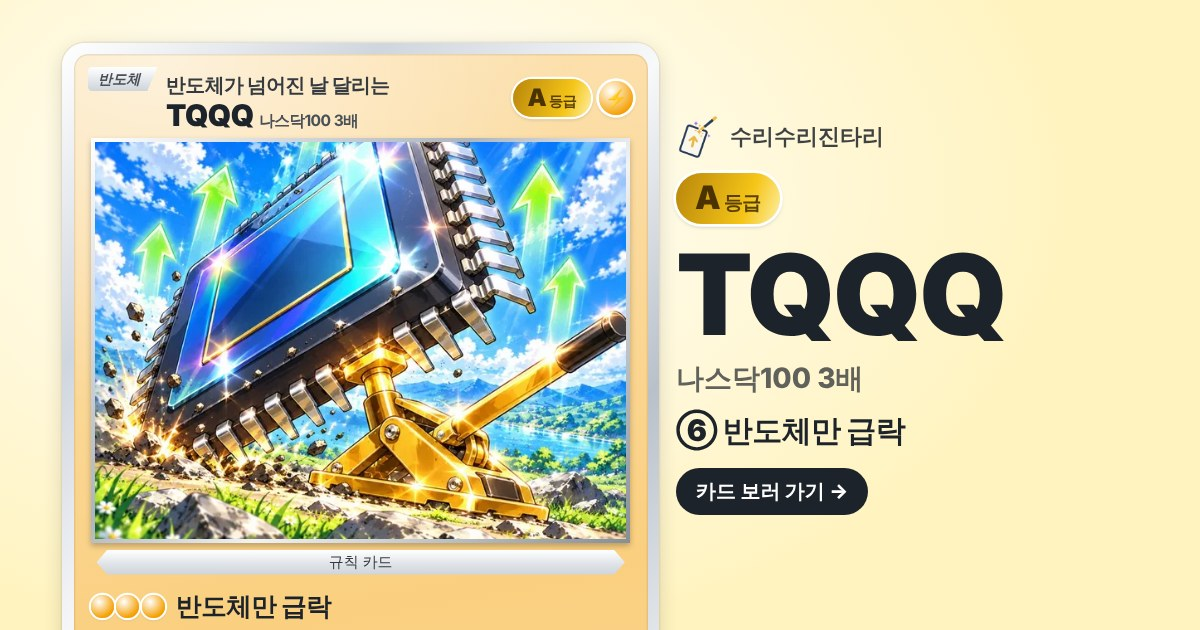
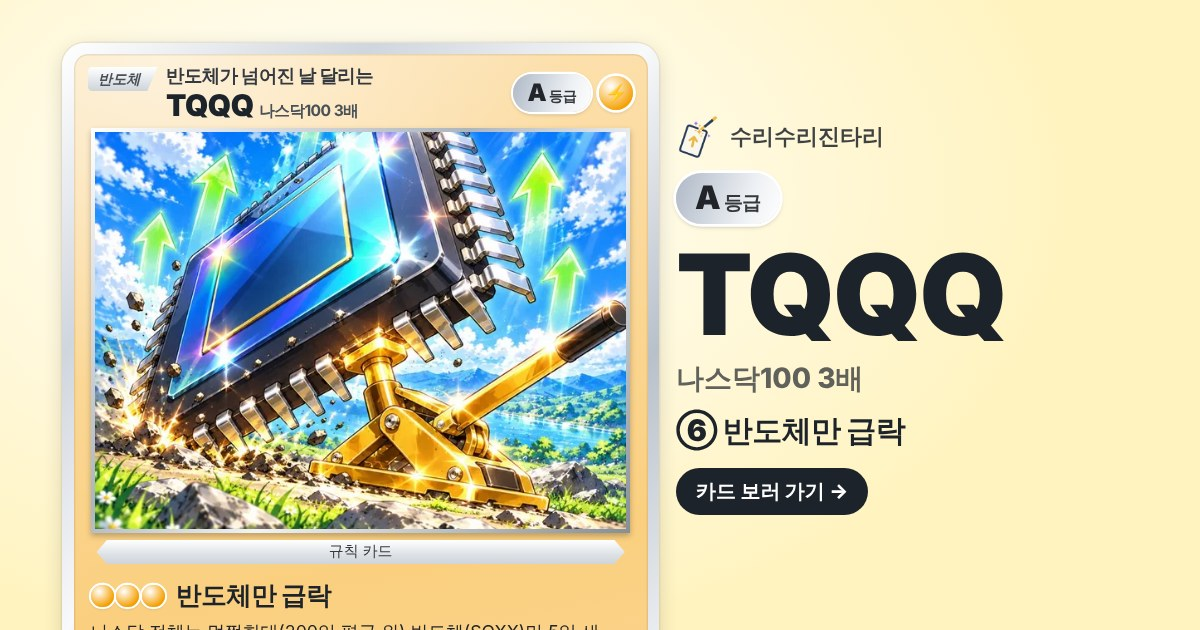
Regenerate thumbnails with frame-colored badges
Claude-Session: https://claude.ai/code/session_01Xnyx7mtSPSqwH8ncGopNjD

Changed region(s): [[0.0617, 0.0905, 0.555, 1.0], [0.555, 0.2714, 0.6475, 0.3619]]

diff --git a/c/1-b/index.html b/c/1-b/index.html
@@ -5,7 +5,7 @@
 <meta property="og:title" content="급락 초입 카드 · B등급">
 <meta property="og:description" content="시장이 막 미끄러지기 시작할 때가 가장 싸게 담을 수 있는 순간. 깊이 빠진 뒤가 아니라 '처음' 꺾일 때 받아요. 수리수리진타리에서 지금 이 카드를 확인하세요.">
 <meta property="og:url" content="https://stock.jintar.co.kr/c/1-b/">
-<meta property="og:image" content="https://stock.jintar.co.kr/c/1-b.jpg?v=mv8oqtoo">
+<meta property="og:image" content="https://stock.jintar.co.kr/c/1-b.jpg?v=mv8q327z">
 <meta property="og:image:width" content="1200">
 <meta property="og:image:height" content="630">
 <meta property="og:image:alt" content="급락 초입 카드">
@@ -13,7 +13,7 @@
 <meta name="twitter:card" content="summary_large_image">
 <meta name="twitter:title" content="급락 초입 카드 · B등급">
 <meta name="twitter:description" content="시장이 막 미끄러지기 시작할 때가 가장 싸게 담을 수 있는 순간. 깊이 빠진 뒤가 아니라 '처음' 꺾일 때 받아요. 수리수리진타리에서 지금 이 카드를 확인하세요.">
-<meta name="twitter:image" content="https://stock.jintar.co.kr/c/1-b.jpg?v=mv8oqtoo">
+<meta name="twitter:image" content="https://stock.jintar.co.kr/c/1-b.jpg?v=mv8q327z">
 <link rel="icon" href="https://yoonjintar2-ctrl.github.io/bb/hunter/a/icon180.png?v=2">
 <script>var h=(location.hash||'').replace(/^#/,'').replace(/[^A-Za-z0-9]/g,'');location.replace('/#c1'+(h?'-'+h:''));</script>
 </head><body style="font-family:sans-serif;color:#6b7580;text-align:center;padding-top:40vh"><a href="/#c1">카드 보러 가기</a></body></html>

diff --git a/c/1/index.html b/c/1/index.html
@@ -5,7 +5,7 @@
 <meta property="og:title" content="급락 초입 카드 · A등급">
 <meta property="og:description" content="시장이 막 미끄러지기 시작할 때가 가장 싸게 담을 수 있는 순간. 깊이 빠진 뒤가 아니라 '처음' 꺾일 때 받아요. 수리수리진타리에서 지금 이 카드를 확인하세요.">
 <meta property="og:url" content="https://stock.jintar.co.kr/c/1/">
-<meta property="og:image" content="https://stock.jintar.co.kr/c/1.jpg?v=mv8oqtok">
+<meta property="og:image" content="https://stock.jintar.co.kr/c/1.jpg?v=mv8q327t">
 <meta property="og:image:width" content="1200">
 <meta property="og:image:height" content="630">
 <meta property="og:image:alt" content="급락 초입 카드">
@@ -13,7 +13,7 @@
 <meta name="twitter:card" content="summary_large_image">
 <meta name="twitter:title" content="급락 초입 카드 · A등급">
 <meta name="twitter:description" content="시장이 막 미끄러지기 시작할 때가 가장 싸게 담을 수 있는 순간. 깊이 빠진 뒤가 아니라 '처음' 꺾일 때 받아요. 수리수리진타리에서 지금 이 카드를 확인하세요.">
-<meta name="twitter:image" content="https://stock.jintar.co.kr/c/1.jpg?v=mv8oqtok">
+<meta name="twitter:image" content="https://stock.jintar.co.kr/c/1.jpg?v=mv8q327t">
 <link rel="icon" href="https://yoonjintar2-ctrl.github.io/bb/hunter/a/icon180.png?v=2">
 <script>var h=(location.hash||'').replace(/^#/,'').replace(/[^A-Za-z0-9]/g,'');location.replace('/#c1'+(h?'-'+h:''));</script>
 </head><body style="font-family:sans-serif;color:#6b7580;text-align:center;padding-top:40vh"><a href="/#c1">카드 보러 가기</a></body></html>

diff --git a/c/8-bp/index.html b/c/8-bp/index.html
@@ -5,7 +5,7 @@
 <meta property="og:title" content="급락일 과하게 빠진 종목 카드 · B+등급">
 <meta property="og:description" content="협곡 바닥까지 과하게 떨어진 종목은 스프링처럼 튀어 올라요. 늦을수록 손해. 수리수리진타리에서 지금 이 카드를 확인하세요.">
 <meta property="og:url" content="https://stock.jintar.co.kr/c/8-bp/">
-<meta property="og:image" content="https://stock.jintar.co.kr/c/8-bp.jpg?v=mv8oqtop">
+<meta property="og:image" content="https://stock.jintar.co.kr/c/8-bp.jpg?v=mv8q3280">
 <meta property="og:image:width" content="1200">
 <meta property="og:image:height" content="630">
 <meta property="og:image:alt" content="급락일 과하게 빠진 종목 카드">
@@ -13,7 +13,7 @@
 <meta name="twitter:card" content="summary_large_image">
 <meta name="twitter:title" content="급락일 과하게 빠진 종목 카드 · B+등급">
 <meta name="twitter:description" content="협곡 바닥까지 과하게 떨어진 종목은 스프링처럼 튀어 올라요. 늦을수록 손해. 수리수리진타리에서 지금 이 카드를 확인하세요.">
-<meta name="twitter:image" content="https://stock.jintar.co.kr/c/8-bp.jpg?v=mv8oqtop">
+<meta name="twitter:image" content="https://stock.jintar.co.kr/c/8-bp.jpg?v=mv8q3280">
 <link rel="icon" href="https://yoonjintar2-ctrl.github.io/bb/hunter/a/icon180.png?v=2">
 <script>var h=(location.hash||'').replace(/^#/,'').replace(/[^A-Za-z0-9]/g,'');location.replace('/#c8'+(h?'-'+h:''));</script>
 </head><body style="font-family:sans-serif;color:#6b7580;text-align:center;padding-top:40vh"><a href="/#c8">카드 보러 가기</a></body></html>

diff --git a/c/8/index.html b/c/8/index.html
@@ -5,7 +5,7 @@
 <meta property="og:title" content="급락일 과하게 빠진 종목 카드 · A등급">
 <meta property="og:description" content="협곡 바닥까지 과하게 떨어진 종목은 스프링처럼 튀어 올라요. 늦을수록 손해. 수리수리진타리에서 지금 이 카드를 확인하세요.">
 <meta property="og:url" content="https://stock.jintar.co.kr/c/8/">
-<meta property="og:image" content="https://stock.jintar.co.kr/c/8.jpg?v=mv8oqtom">
+<meta property="og:image" content="https://stock.jintar.co.kr/c/8.jpg?v=mv8q327w">
 <meta property="og:image:width" content="1200">
 <meta property="og:image:height" content="630">
 <meta property="og:image:alt" content="급락일 과하게 빠진 종목 카드">
@@ -13,7 +13,7 @@
 <meta name="twitter:card" content="summary_large_image">
 <meta name="twitter:title" content="급락일 과하게 빠진 종목 카드 · A등급">
 <meta name="twitter:description" content="협곡 바닥까지 과하게 떨어진 종목은 스프링처럼 튀어 올라요. 늦을수록 손해. 수리수리진타리에서 지금 이 카드를 확인하세요.">
-<meta name="twitter:image" content="https://stock.jintar.co.kr/c/8.jpg?v=mv8oqtom">
+<meta name="twitter:image" content="https://stock.jintar.co.kr/c/8.jpg?v=mv8q327w">
 <link rel="icon" href="https://yoonjintar2-ctrl.github.io/bb/hunter/a/icon180.png?v=2">
 <script>var h=(location.hash||'').replace(/^#/,'').replace(/[^A-Za-z0-9]/g,'');location.replace('/#c8'+(h?'-'+h:''));</script>
 </head><body style="font-family:sans-serif;color:#6b7580;text-align:center;padding-top:40vh"><a href="/#c8">카드 보러 가기</a></body></html>

diff --git a/c/2-b/index.html b/c/2-b/index.html
@@ -5,7 +5,7 @@
 <meta property="og:title" content="나스닥 박스 하단 카드 · B등급">
 <meta property="og:description" content="오른 뒤 쉬어 가는 상자 안에서, 바닥을 두 번 확인하고 튀어 오를 때를 노려요. 수리수리진타리에서 지금 이 카드를 확인하세요.">
 <meta property="og:url" content="https://stock.jintar.co.kr/c/2-b/">
-<meta property="og:image" content="https://stock.jintar.co.kr/c/2-b.jpg?v=mv8oqtop">
+<meta property="og:image" content="https://stock.jintar.co.kr/c/2-b.jpg?v=mv8q327z">
 <meta property="og:image:width" content="1200">
 <meta property="og:image:height" content="630">
 <meta property="og:image:alt" content="나스닥 박스 하단 카드">
@@ -13,7 +13,7 @@
 <meta name="twitter:card" content="summary_large_image">
 <meta name="twitter:title" content="나스닥 박스 하단 카드 · B등급">
 <meta name="twitter:description" content="오른 뒤 쉬어 가는 상자 안에서, 바닥을 두 번 확인하고 튀어 오를 때를 노려요. 수리수리진타리에서 지금 이 카드를 확인하세요.">
-<meta name="twitter:image" content="https://stock.jintar.co.kr/c/2-b.jpg?v=mv8oqtop">
+<meta name="twitter:image" content="https://stock.jintar.co.kr/c/2-b.jpg?v=mv8q327z">
 <link rel="icon" href="https://yoonjintar2-ctrl.github.io/bb/hunter/a/icon180.png?v=2">
 <script>var h=(location.hash||'').replace(/^#/,'').replace(/[^A-Za-z0-9]/g,'');location.replace('/#c2'+(h?'-'+h:''));</script>
 </head><body style="font-family:sans-serif;color:#6b7580;text-align:center;padding-top:40vh"><a href="/#c2">카드 보러 가기</a></body></html>

diff --git a/c/2/index.html b/c/2/index.html
@@ -5,7 +5,7 @@
 <meta property="og:title" content="나스닥 박스 하단 카드 · B+등급">
 <meta property="og:description" content="오른 뒤 쉬어 가는 상자 안에서, 바닥을 두 번 확인하고 튀어 오를 때를 노려요. 수리수리진타리에서 지금 이 카드를 확인하세요.">
 <meta property="og:url" content="https://stock.jintar.co.kr/c/2/">
-<meta property="og:image" content="https://stock.jintar.co.kr/c/2.jpg?v=mv8oqtol">
+<meta property="og:image" content="https://stock.jintar.co.kr/c/2.jpg?v=mv8q327u">
 <meta property="og:image:width" content="1200">
 <meta property="og:image:height" content="630">
 <meta property="og:image:alt" content="나스닥 박스 하단 카드">
@@ -13,7 +13,7 @@
 <meta name="twitter:card" content="summary_large_image">
 <meta name="twitter:title" content="나스닥 박스 하단 카드 · B+등급">
 <meta name="twitter:description" content="오른 뒤 쉬어 가는 상자 안에서, 바닥을 두 번 확인하고 튀어 오를 때를 노려요. 수리수리진타리에서 지금 이 카드를 확인하세요.">
-<meta name="twitter:image" content="https://stock.jintar.co.kr/c/2.jpg?v=mv8oqtol">
+<meta name="twitter:image" content="https://stock.jintar.co.kr/c/2.jpg?v=mv8q327u">
 <link rel="icon" href="https://yoonjintar2-ctrl.github.io/bb/hunter/a/icon180.png?v=2">
 <script>var h=(location.hash||'').replace(/^#/,'').replace(/[^A-Za-z0-9]/g,'');location.replace('/#c2'+(h?'-'+h:''));</script>
 </head><body style="font-family:sans-serif;color:#6b7580;text-align:center;padding-top:40vh"><a href="/#c2">카드 보러 가기</a></body></html>

diff --git a/c/13s/index.html b/c/13s/index.html
@@ -5,7 +5,7 @@
 <meta property="og:title" content="⛔ 매수 금지 · 반도체 과열 뒤 꺾임 카드 · C-등급">
 <meta property="og:description" content="들뜬 군중이 떠난 자리엔 다시 들어가지 않아요. 수리수리진타리에서 지금 이 카드를 확인하세요.">
 <meta property="og:url" content="https://stock.jintar.co.kr/c/13s/">
-<meta property="og:image" content="https://stock.jintar.co.kr/c/13s.jpg?v=mv8oqtoo">
+<meta property="og:image" content="https://stock.jintar.co.kr/c/13s.jpg?v=mv8q327y">
 <meta property="og:image:width" content="1200">
 <meta property="og:image:height" content="630">
 <meta property="og:image:alt" content="반도체 과열 뒤 꺾임 카드">
@@ -13,7 +13,7 @@
 <meta name="twitter:card" content="summary_large_image">
 <meta name="twitter:title" content="⛔ 매수 금지 · 반도체 과열 뒤 꺾임 카드 · C-등급">
 <meta name="twitter:description" content="들뜬 군중이 떠난 자리엔 다시 들어가지 않아요. 수리수리진타리에서 지금 이 카드를 확인하세요.">
-<meta name="twitter:image" content="https://stock.jintar.co.kr/c/13s.jpg?v=mv8oqtoo">
+<meta name="twitter:image" content="https://stock.jintar.co.kr/c/13s.jpg?v=mv8q327y">
 <link rel="icon" href="https://yoonjintar2-ctrl.github.io/bb/hunter/a/icon180.png?v=2">
 <script>var h=(location.hash||'').replace(/^#/,'').replace(/[^A-Za-z0-9]/g,'');location.replace('/#c13s'+(h?'-'+h:''));</script>
 </head><body style="font-family:sans-serif;color:#6b7580;text-align:center;padding-top:40vh"><a href="/#c13s">카드 보러 가기</a></body></html>

diff --git a/c/7/index.html b/c/7/index.html
@@ -5,7 +5,7 @@
 <meta property="og:title" content="V자 반등 후 횡보 카드 · C+등급">
 <meta property="og:description" content="빠르게 꺾였다 돌아온 V자를 돋보기로 지켜보는 중. 아직 연습 카드예요. 수리수리진타리에서 지금 이 카드를 확인하세요.">
 <meta property="og:url" content="https://stock.jintar.co.kr/c/7/">
-<meta property="og:image" content="https://stock.jintar.co.kr/c/7.jpg?v=mv8oqtom">
+<meta property="og:image" content="https://stock.jintar.co.kr/c/7.jpg?v=mv8q327w">
 <meta property="og:image:width" content="1200">
 <meta property="og:image:height" content="630">
 <meta property="og:image:alt" content="V자 반등 후 횡보 카드">
@@ -13,7 +13,7 @@
 <meta name="twitter:card" content="summary_large_image">
 <meta name="twitter:title" content="V자 반등 후 횡보 카드 · C+등급">
 <meta name="twitter:description" content="빠르게 꺾였다 돌아온 V자를 돋보기로 지켜보는 중. 아직 연습 카드예요. 수리수리진타리에서 지금 이 카드를 확인하세요.">
-<meta name="twitter:image" content="https://stock.jintar.co.kr/c/7.jpg?v=mv8oqtom">
+<meta name="twitter:image" content="https://stock.jintar.co.kr/c/7.jpg?v=mv8q327w">
 <link rel="icon" href="https://yoonjintar2-ctrl.github.io/bb/hunter/a/icon180.png?v=2">
 <script>var h=(location.hash||'').replace(/^#/,'').replace(/[^A-Za-z0-9]/g,'');location.replace('/#c7'+(h?'-'+h:''));</script>
 </head><body style="font-family:sans-serif;color:#6b7580;text-align:center;padding-top:40vh"><a href="/#c7">카드 보러 가기</a></body></html>

diff --git a/c/5-a/index.html b/c/5-a/index.html
@@ -5,7 +5,7 @@
 <meta property="og:title" content="금·금리 동반 하락 카드 · A등급">
 <meta property="og:description" content="현금이 급해 금까지 내다 판 날, 쏟아진 금화를 상자에 담아요. 수리수리진타리에서 지금 이 카드를 확인하세요.">
 <meta property="og:url" content="https://stock.jintar.co.kr/c/5-a/">
-<meta property="og:image" content="https://stock.jintar.co.kr/c/5-a.jpg?v=mv8oqtop">
+<meta property="og:image" content="https://stock.jintar.co.kr/c/5-a.jpg?v=mv8q3280">
 <meta property="og:image:width" content="1200">
 <meta property="og:image:height" content="630">
 <meta property="og:image:alt" content="금·금리 동반 하락 카드">
@@ -13,7 +13,7 @@
 <meta name="twitter:card" content="summary_large_image">
 <meta name="twitter:title" content="금·금리 동반 하락 카드 · A등급">
 <meta name="twitter:description" content="현금이 급해 금까지 내다 판 날, 쏟아진 금화를 상자에 담아요. 수리수리진타리에서 지금 이 카드를 확인하세요.">
-<meta name="twitter:image" content="https://stock.jintar.co.kr/c/5-a.jpg?v=mv8oqtop">
+<meta name="twitter:image" content="https://stock.jintar.co.kr/c/5-a.jpg?v=mv8q3280">
 <link rel="icon" href="https://yoonjintar2-ctrl.github.io/bb/hunter/a/icon180.png?v=2">
 <script>var h=(location.hash||'').replace(/^#/,'').replace(/[^A-Za-z0-9]/g,'');location.replace('/#c5'+(h?'-'+h:''));</script>
 </head><body style="font-family:sans-serif;color:#6b7580;text-align:center;padding-top:40vh"><a href="/#c5">카드 보러 가기</a></body></html>

diff --git a/c/4/index.html b/c/4/index.html
@@ -5,7 +5,7 @@
 <meta property="og:title" content="실적주 공포 여론 카드 · A등급">
 <meta property="og:description" content="모두가 겁에 질려 던질 때, 실적이 멀쩡한 보석만 조용히 줍습니다. 수리수리진타리에서 지금 이 카드를 확인하세요.">
 <meta property="og:url" content="https://stock.jintar.co.kr/c/4/">
-<meta property="og:image" content="https://stock.jintar.co.kr/c/4.jpg?v=mv8oqtol">
+<meta property="og:image" content="https://stock.jintar.co.kr/c/4.jpg?v=mv8q327v">
 <meta property="og:image:width" content="1200">
 <meta property="og:image:height" content="630">
 <meta property="og:image:alt" content="실적주 공포 여론 카드">
@@ -13,7 +13,7 @@
 <meta name="twitter:card" content="summary_large_image">
 <meta name="twitter:title" content="실적주 공포 여론 카드 · A등급">
 <meta name="twitter:description" content="모두가 겁에 질려 던질 때, 실적이 멀쩡한 보석만 조용히 줍습니다. 수리수리진타리에서 지금 이 카드를 확인하세요.">
-<meta name="twitter:image" content="https://stock.jintar.co.kr/c/4.jpg?v=mv8oqtol">
+<meta name="twitter:image" content="https://stock.jintar.co.kr/c/4.jpg?v=mv8q327v">
 <link rel="icon" href="https://yoonjintar2-ctrl.github.io/bb/hunter/a/icon180.png?v=2">
 <script>var h=(location.hash||'').replace(/^#/,'').replace(/[^A-Za-z0-9]/g,'');location.replace('/#c4'+(h?'-'+h:''));</script>
 </head><body style="font-family:sans-serif;color:#6b7580;text-align:center;padding-top:40vh"><a href="/#c4">카드 보러 가기</a></body></html>

diff --git a/c/6-b/index.html b/c/6-b/index.html
@@ -5,7 +5,7 @@
 <meta property="og:title" content="반도체만 급락 카드 · B등급">
 <meta property="og:description" content="시장은 멀쩡한데 반도체만 넘어졌다면, 일으켜 세우는 쪽에 걸어요. 수리수리진타리에서 지금 이 카드를 확인하세요.">
 <meta property="og:url" content="https://stock.jintar.co.kr/c/6-b/">
-<meta property="og:image" content="https://stock.jintar.co.kr/c/6-b.jpg?v=mv8oqtop">
+<meta property="og:image" content="https://stock.jintar.co.kr/c/6-b.jpg?v=mv8q3280">
 <meta property="og:image:width" content="1200">
 <meta property="og:image:height" content="630">
 <meta property="og:image:alt" content="반도체만 급락 카드">
@@ -13,7 +13,7 @@
 <meta name="twitter:card" content="summary_large_image">
 <meta name="twitter:title" content="반도체만 급락 카드 · B등급">
 <meta name="twitter:description" content="시장은 멀쩡한데 반도체만 넘어졌다면, 일으켜 세우는 쪽에 걸어요. 수리수리진타리에서 지금 이 카드를 확인하세요.">
-<meta name="twitter:image" content="https://stock.jintar.co.kr/c/6-b.jpg?v=mv8oqtop">
+<meta name="twitter:image" content="https://stock.jintar.co.kr/c/6-b.jpg?v=mv8q3280">
 <link rel="icon" href="https://yoonjintar2-ctrl.github.io/bb/hunter/a/icon180.png?v=2">
 <script>var h=(location.hash||'').replace(/^#/,'').replace(/[^A-Za-z0-9]/g,'');location.replace('/#c6'+(h?'-'+h:''));</script>
 </head><body style="font-family:sans-serif;color:#6b7580;text-align:center;padding-top:40vh"><a href="/#c6">카드 보러 가기</a></body></html>

diff --git a/c/5/index.html b/c/5/index.html
@@ -5,7 +5,7 @@
 <meta property="og:title" content="금·금리 동반 하락 카드 · S등급">
 <meta property="og:description" content="현금이 급해 금까지 내다 판 날, 쏟아진 금화를 상자에 담아요. 수리수리진타리에서 지금 이 카드를 확인하세요.">
 <meta property="og:url" content="https://stock.jintar.co.kr/c/5/">
-<meta property="og:image" content="https://stock.jintar.co.kr/c/5.jpg?v=mv8oqtom">
+<meta property="og:image" content="https://stock.jintar.co.kr/c/5.jpg?v=mv8q327v">
 <meta property="og:image:width" content="1200">
 <meta property="og:image:height" content="630">
 <meta property="og:image:alt" content="금·금리 동반 하락 카드">
@@ -13,7 +13,7 @@
 <meta name="twitter:card" content="summary_large_image">
 <meta name="twitter:title" content="금·금리 동반 하락 카드 · S등급">
 <meta name="twitter:description" content="현금이 급해 금까지 내다 판 날, 쏟아진 금화를 상자에 담아요. 수리수리진타리에서 지금 이 카드를 확인하세요.">
-<meta name="twitter:image" content="https://stock.jintar.co.kr/c/5.jpg?v=mv8oqtom">
+<meta name="twitter:image" content="https://stock.jintar.co.kr/c/5.jpg?v=mv8q327v">
 <link rel="icon" href="https://yoonjintar2-ctrl.github.io/bb/hunter/a/icon180.png?v=2">
 <script>var h=(location.hash||'').replace(/^#/,'').replace(/[^A-Za-z0-9]/g,'');location.replace('/#c5'+(h?'-'+h:''));</script>
 </head><body style="font-family:sans-serif;color:#6b7580;text-align:center;padding-top:40vh"><a href="/#c5">카드 보러 가기</a></body></html>
